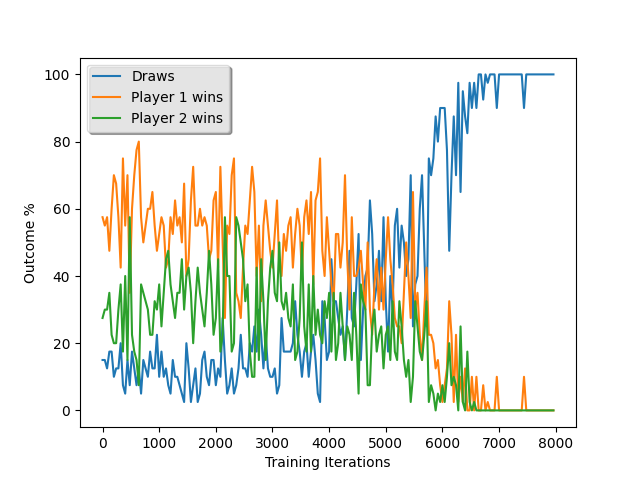
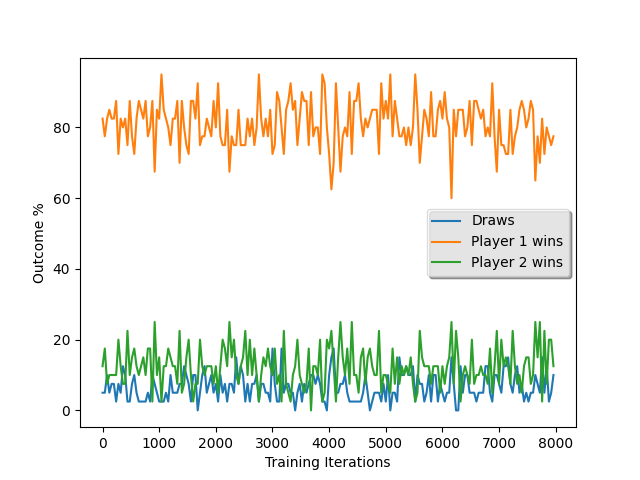
update tdlearn

diff --git a/tdlearn.py b/tdlearn.py
@@ -7,31 +7,47 @@ from game.tic_tac_toe import Board
 from game.tic_tac_toe import TicTacToe
 from game.Player import Player
 
+# rewards for win, draw, and loss
+RES_WIN = 1.0
+RES_DRAW = 0.5
+RES_LOSS = 0.0
+
 
 class TDAgent(Player):
-    def __init__(self, environment):
-        self.environment = environment
-        self.learning_rate = 0.1
-        self.exploration_rate = 0.1
-        self.values = numpy.zeros(3 ** (self.environment.board.size ** 2 + 1))
+    def __init__(self):
+        self.side = None
+        self.alpha = 0.1
+        self.gamma = 0.95
+        self.epsilon = 0.1
+        self.vtable = numpy.zeros(3 ** (3 ** 2 + 1))
+        # history for applying reward at the end of an episode
+        self.history = []
+    
+    def get_move(self, board: Board) -> int:
+        possible = board.possible_actions()
+        # take random move epsilon % of the time
+        if numpy.random.binomial(1, self.epsilon):
+            move = tuple(random.choice(possible))
+            return (3*move[0] + move[1])
+        copies = [copy.deepcopy(board) for i in possible]
+        for action, boardcopy in zip(possible, copies):
+            boardcopy.take_turn(tuple(action))
+        hashes = [boardcopy.hash() for boardcopy in copies]
+        # move to state with best value
+        move = possible[numpy.argmax(self.vtable[hashes])]
+        return (3*move[0] + move[1])
+    
+    def move(self, board: Board):
+        over, _ = board.is_over()
+        move = self.get_move(board)
+        action = (move // 3, move % 3)
+        assert (board.is_possible(action))
+        assert (not over)
 
-    def record(self, initial, resulting, reward, over):
-        if over:
-            self.values[resulting] = reward
-        # V(s) = V(s) + alpha * [V(s') - V(s)]
-        self.values[initial] = self.values[initial] + self.learning_rate * (
-            self.values[resulting] - self.values[initial]
-        )
-
-    def action(self):
-        possible = self.environment.board.possible_actions()
-        if numpy.random.binomial(1, self.exploration_rate):
-            return tuple(random.choice(possible)), False
-        copies = [copy.deepcopy(self.environment.board) for i in possible]
-        for action, board in zip(possible, copies):
-            board.take_turn(tuple(action))
-        hashes = [board.hash() for board in copies]
-        return tuple(possible[numpy.argmax(self.values[hashes])]), True
+        self.history.append(board.hash())
+        board.take_turn(action)
+        over, winner = board.is_over()
+        return (winner, board, over)
 
     def reset_explore(self):
         self.exploration_rate = 0
@@ -39,84 +55,29 @@ class TDAgent(Player):
     def set_env(self, environment):
         self.environment = environment
     
-    def move(self, env: Board):
-        possible = env.possible_actions()
-        copies = [copy.deepcopy(env) for i in possible]
-        for action, board in zip(possible, copies):
-            board.take_turn(tuple(action))
-        hashes = [board.hash() for board in copies]
-
-        env.take_turn(tuple(possible[numpy.argmax(self.values[hashes])]))
-        over, winner = env.is_over()
-        return (winner, env, over)
-    
     def final_result(self, result: int):
-        pass
+        if (result == -1 and self.side == -1) or (result == 1 and self.side == 1):
+            final_value = RES_WIN
+        elif (result == -1 and self.side == 1) or (result == 1 and self.side == -1):
+            final_value = RES_LOSS
+        elif (result == 0):
+            final_value = RES_DRAW
+        else:
+            raise ValueError("Unexpected game result")
+
+        self.history.reverse()
+        next_val = -1.0
+
+        for h in self.history:
+            # on first pass
+            if next_val < 0:
+                self.vtable[h] = final_value
+            else:
+                self.vtable[h] = self.vtable[h] + self.alpha * (final_value + self.gamma * next_state - self.vtable[h])
+            next_state = self.vtable[h]
+        
+
 
     def new_game(self, side: int):
-        pass
-
-
-def learn(iters):
-    env = TicTacToe()
-    playerOne = TDAgent(env)
-    playerTwo = TDAgent(env)
-    episodes = range(int(iters))
-    for i in episodes:
-        playerOne_turn = True
-        while True:
-            if playerOne_turn:
-                action, greedy = playerOne.action()
-            else:
-                action, greedy = playerTwo.action()
-            playerOne_turn = not playerOne_turn
-            prev_state = env.board.hash()
-            reward, _, over = env.step(action)
-            new_state = env.board.hash()
-            if greedy:
-                playerOne.record(prev_state, new_state, reward, over)
-                playerTwo.record(prev_state, new_state, -reward, over)
-            if over:
-                env.reset()
-                break
-    return playerOne, playerTwo
-
-
-def play(one, two, games):
-    env = TicTacToe()
-    playerOne = one
-    playerTwo = two
-    playerOne.set_env(env)
-    playerTwo.set_env(env)
-    iters = games
-    first = True
-    oneWins = 0
-    twoWins = 0
-    draws = 0
-    env.reset()
-    for i in range(iters):
-        while True:
-            if first:
-                action, greedy = playerOne.action()
-                previous_state = env.board.hash()
-                reward, _, over = env.step(action)
-                current_state = env.board.hash()
-            else:
-                action, greedy = playerTwo.action()
-                previous_state = env.board.hash()
-                reward, _, over = env.step(action)
-                current_state = env.board.hash()
-            first = not first
-            # print(env.board)
-            if over:
-                if (reward == 1 and first) or (reward == -1 and not first):
-                    oneWins += 1
-                elif (reward == -1 and first) or (reward == 1 and not first):
-                    twoWins += 1
-                else:
-                    draws += 1
-                # print(env.board)
-                env.reset()
-                break
-    return oneWins * 100.0 / games, twoWins * 100.0 / games, draws * 100.0 / games
-
+        self.side = side
+        self.history = []

diff --git a/eval.py b/eval.py
@@ -8,7 +8,6 @@ from game.tic_tac_toe import TicTacToe
 from rand_player import RandomPlayer
 from game.Player import Player
 from tdlearn import TDAgent
-from tdlearn import learn as tdlearn
 
 PLAYER1 = 1
 PLAYER2 = -1
@@ -33,7 +32,7 @@ def play_game(board: Board, player1: Player, player2: Player) -> int:
         
 
 
-def battle_q(player1: Player, player2: Player, num_games: int = 10000, silent: bool = False):
+def battle(player1: Player, player2: Player, num_games: int = 10000, silent: bool = False):
     board = Board()
     draw_count = 0
     wins_1 = 0
@@ -49,14 +48,14 @@ def battle_q(player1: Player, player2: Player, num_games: int = 10000, silent: b
     print(f"after {num_games} game we have draws: {draw_count}, player1 wins: {wins_1}, player2 wins: {wins_2}")
     return (wins_1, wins_2, draw_count)
 
-def eval_qplayers(p1 : Player, p2 : Player, games_per_battle = 100, num_battles = 100, silent: bool = False):
+def eval_players(p1 : Player, p2 : Player, games_per_battle = 100, num_battles = 100, silent: bool = False):
     p1_wins = []
     p2_wins = []
     draws = []
     count = []
 
     for i in range(num_battles):
-        p1win, p2win, draw = battle_q(p1, p2, games_per_battle, silent)
+        p1win, p2win, draw = battle(p1, p2, games_per_battle, silent)
         p1_wins.append(p1win*100.0/games_per_battle)
         p2_wins.append(p2win*100.0/games_per_battle)
         draws.append(draw*100.0/games_per_battle)
@@ -71,72 +70,14 @@ def eval_qplayers(p1 : Player, p2 : Player, games_per_battle = 100, num_battles 
     plt.xlabel('Training Iterations')
     plt.savefig("myplot3.png")
 
-def battle_td(player1, player2, num_games):
-    env = TicTacToe()
-    player1.set_env(env)
-    player2.set_env(env)
-    first = True
-    oneWins = 0
-    twoWins = 0
-    draws = 0
-    env.reset()
-    for i in range(num_games):
-        while True:
-            if first:
-                action, greedy = player1.action()
-                previous_state = env.board.hash()
-                reward, _, over = env.step(action)
-                current_state = env.board.hash()
-            else:
-                action, greedy = player2.action()
-                previous_state = env.board.hash()
-                reward, _, over = env.step(action)
-                current_state = env.board.hash()
-            first = not first
-            # print(env.board)
-            if over:
-                if (reward == 1 and first) or (reward == -1 and not first):
-                    oneWins += 1
-                elif (reward == -1 and first) or (reward == 1 and not first):
-                    twoWins += 1
-                else:
-                    draws += 1
-                # print(env.board)
-                env.reset()
-                break
-    return oneWins * 100.0 / num_games, twoWins * 100.0 / num_games, draws * 100.0 / num_games
-
-def eval_tdplayers(games_per_battle = 100, num_battles = 200):
-    ones = []
-    twos = []
-    draws = []
-    count = []
-    for i in range(0, 100, 5):
-        one, two = tdlearn(i)
-        one.reset_explore()
-        two.reset_explore()
-        a, b, c = battle_td(one, two, 1000)
-        ones.append(a)
-        twos.append(b)
-        draws.append(c)
-        count.append(i)
-
-    print(ones, twos, draws, count)
-    plt.plot(count, ones, color="red", label="Player One Win")
-    plt.plot(count, twos, color="green", label="Player Two Win")
-    plt.plot(count, draws, color="blue", label="Draw")
-    plt.xlabel("Training Iterations")
-    plt.ylabel("Outcome %")
-    plt.legend()
-    plt.savefig("myplottd.png")
-
 
 #train q agent   
-player1 = QAgent()
-player2 = QAgent()
-eval_qplayers(player1, player2, 40, 200)
+# player1 = QAgent()
+# player2 = QAgent()
+# eval_players(player1, player2, 40, 200)
 
 # train tdagent
-
-#eval_tdplayers(20, 100)
+player1 = TDAgent()
+player2 = TDAgent()
+eval_players(player1, player2, 40, 200)
 
